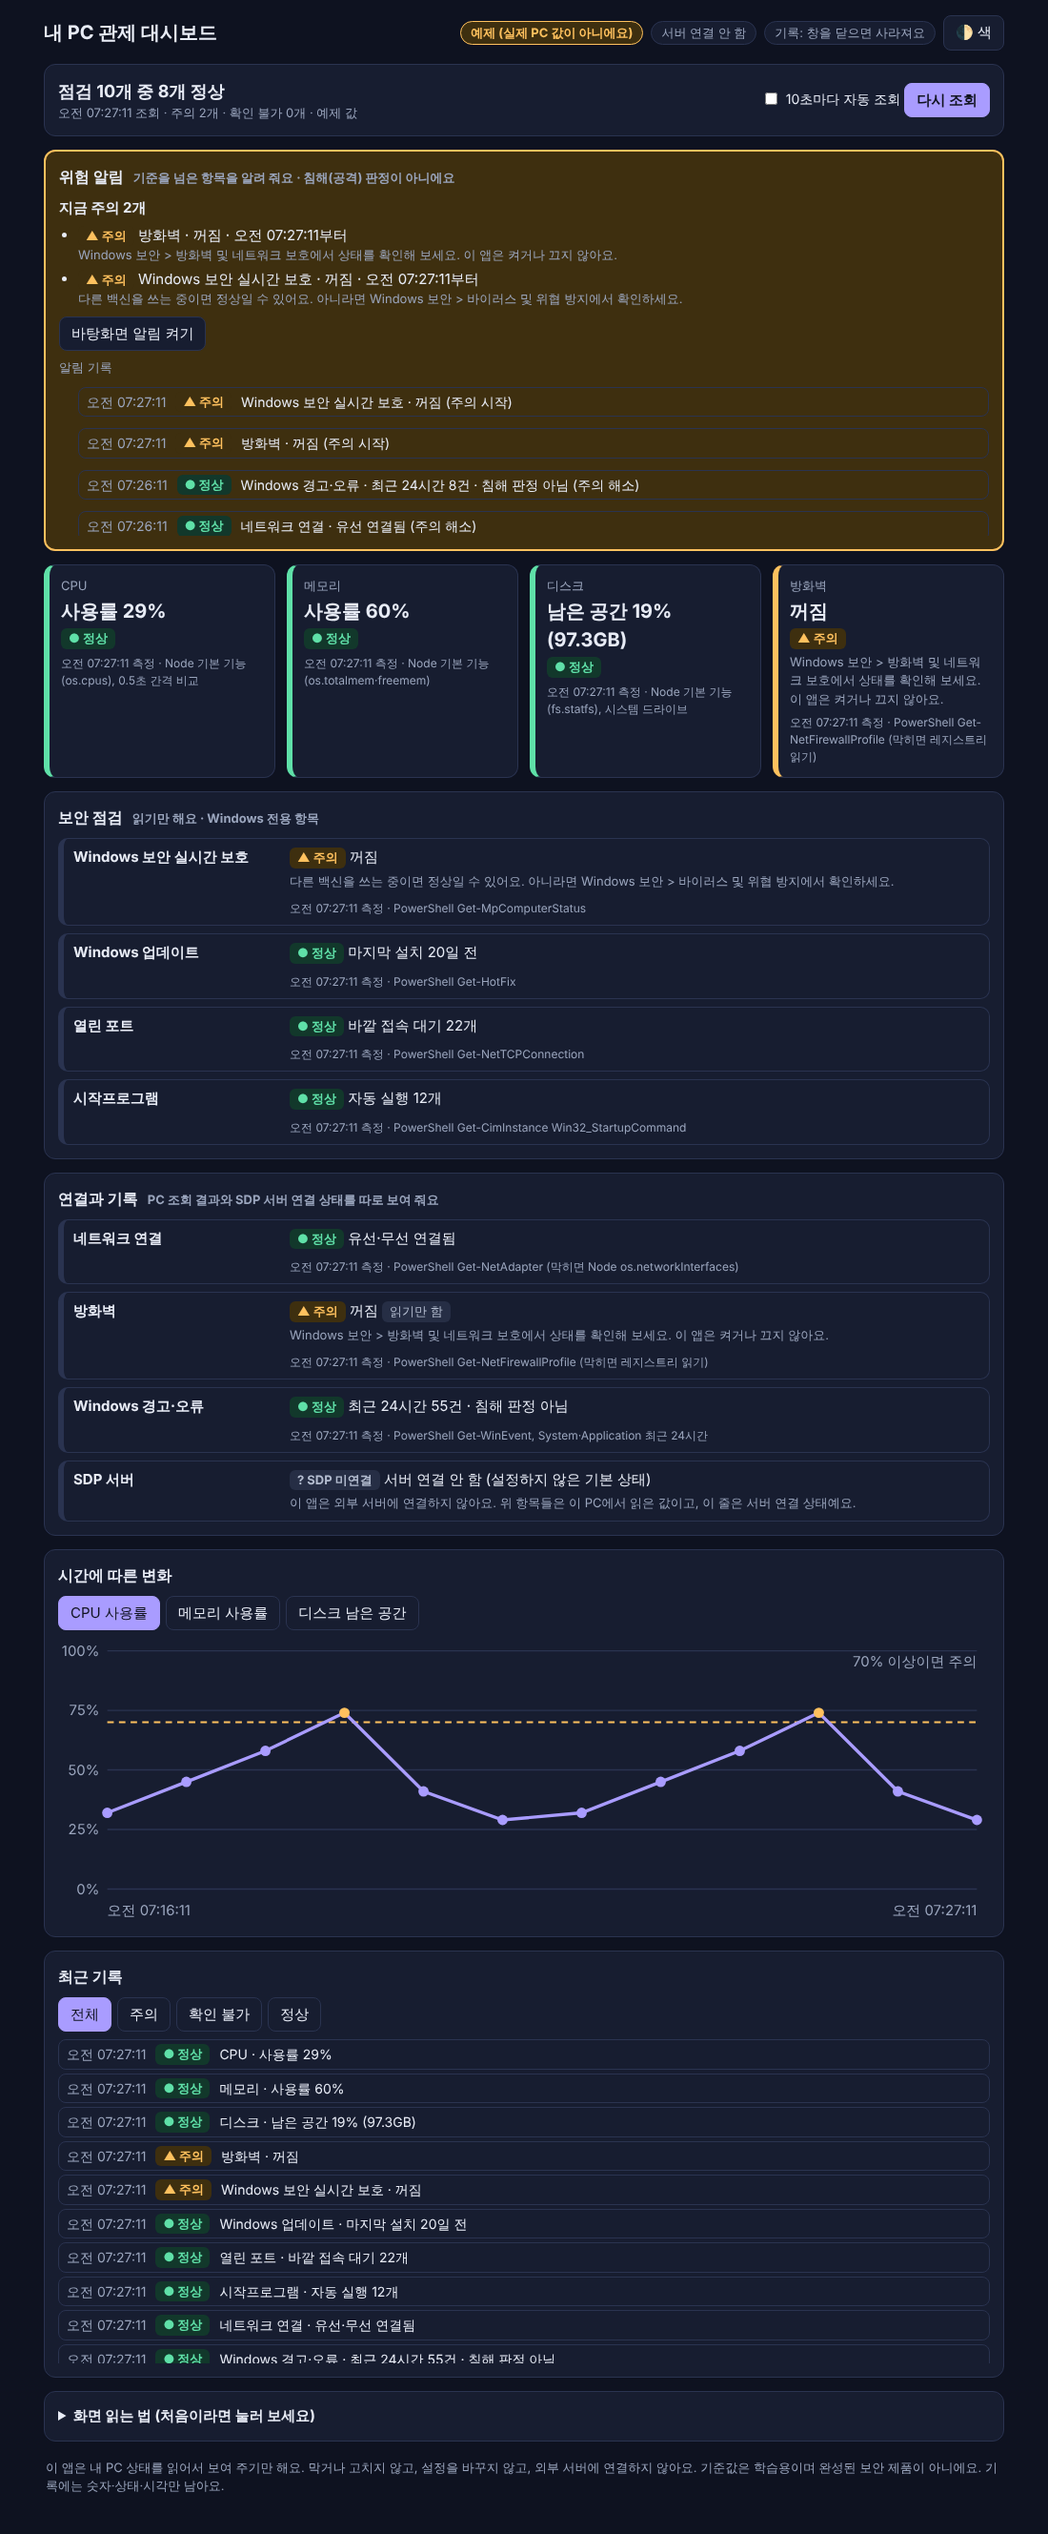
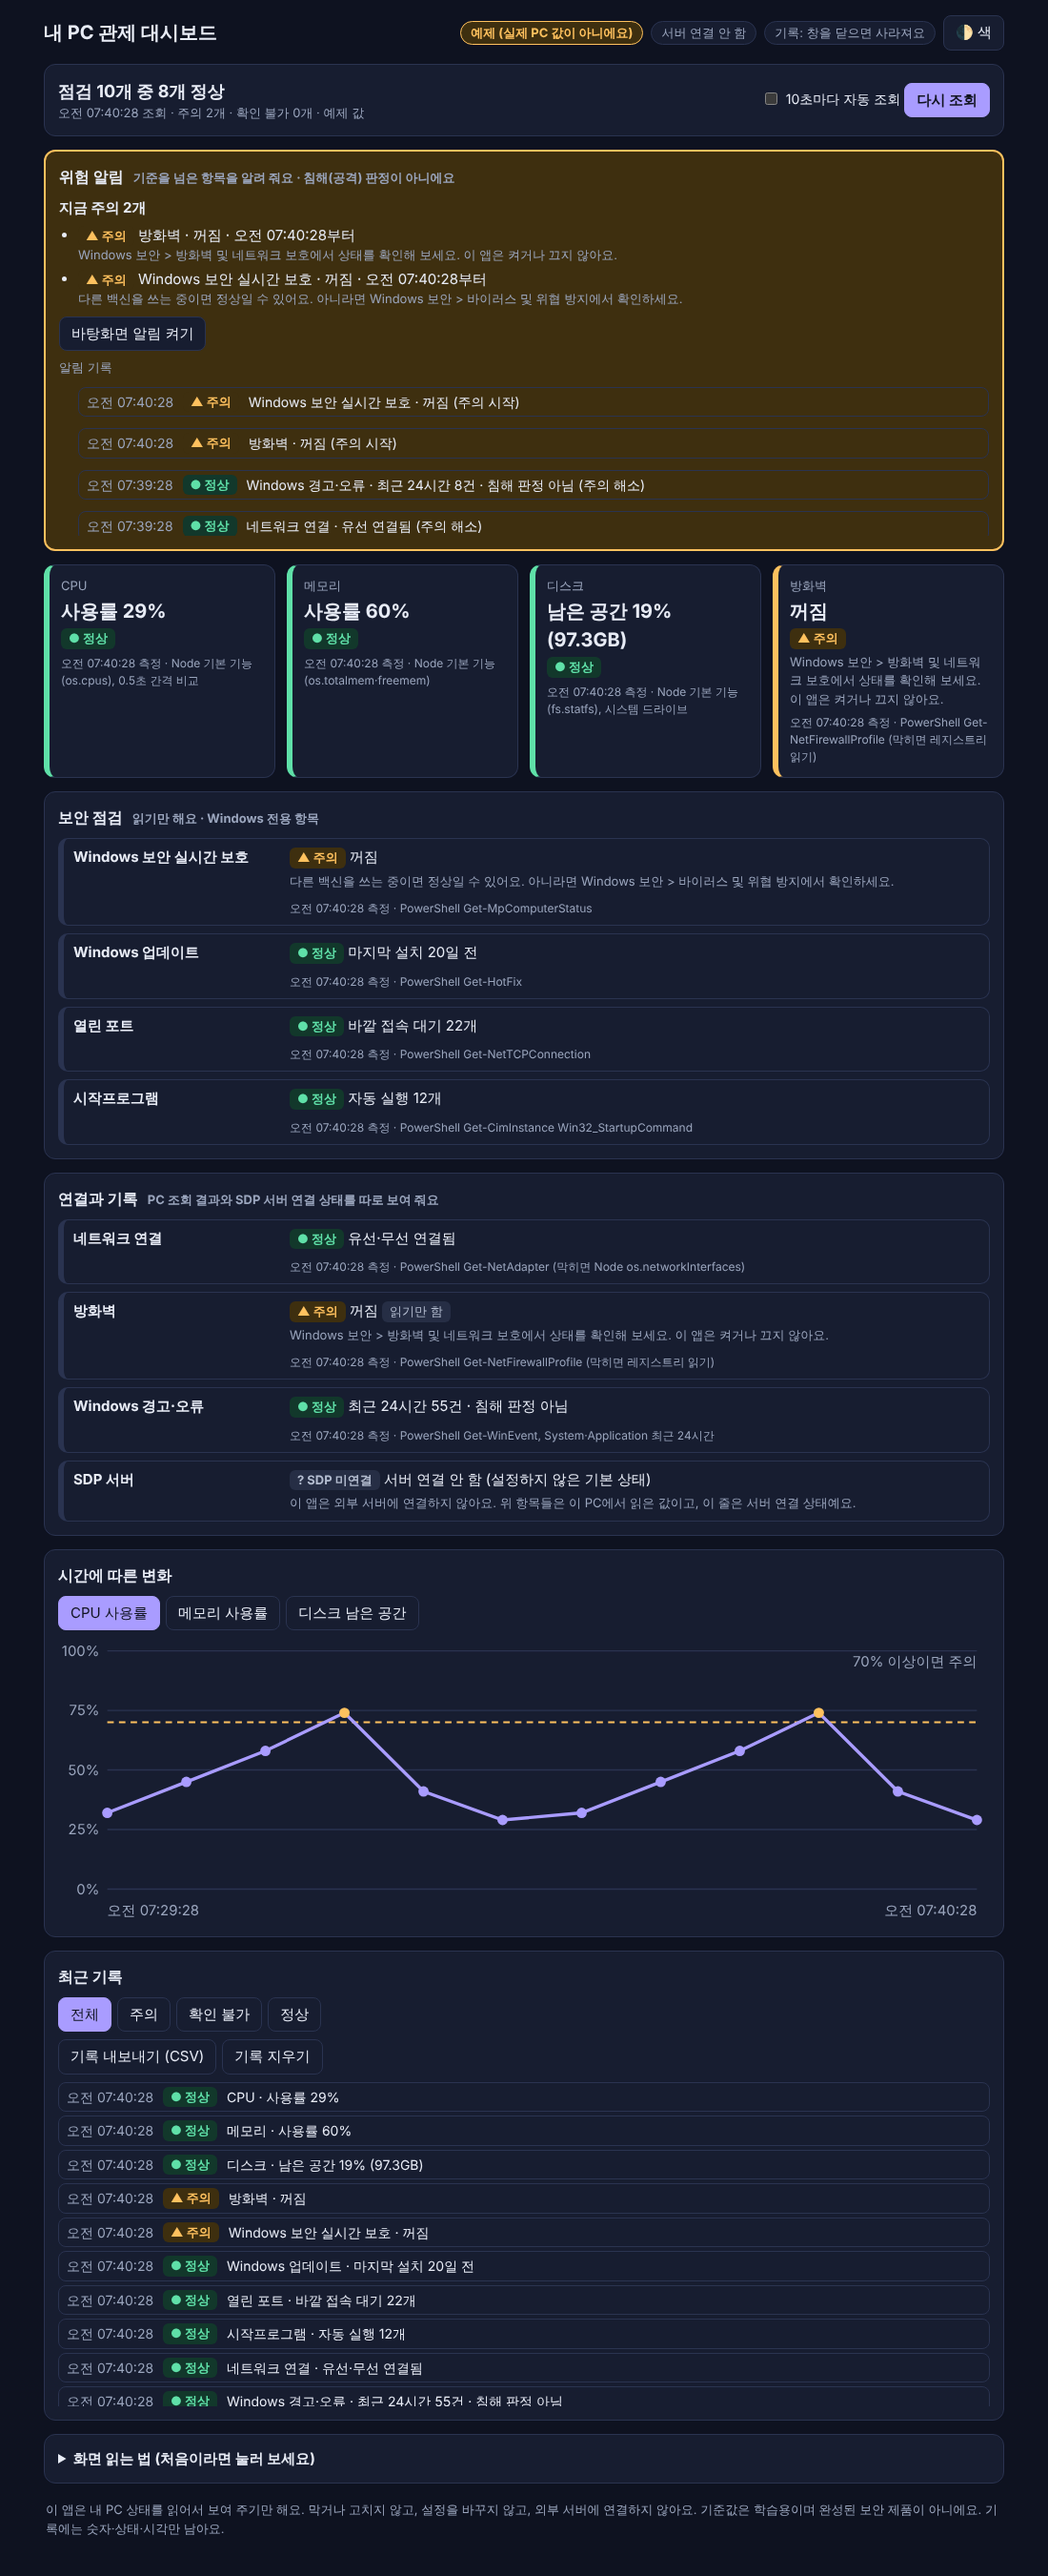
기본 화면을 어두운 색으로 고정하고, 기록 내보내기(CSV)·기록 지우기 추가
- 윈도우 밝은 모드를 따라가지 않고 항상 어두운 화면이 기본 ("색" 버튼으로만 밝게 전환, 선택은 기억)
- 기록 내보내기(CSV): 숫자·상태·시각만, 엑셀에서 한글이 깨지지 않게 BOM 포함
- 기록 지우기: 확인 창을 거쳐 이 앱의 조회 기록만 삭제 (POST만 허용, 다른 출처 거절)
- 시험 추가 및 README 갱신

Claude-Session: https://claude.ai/code/session_01XCBESp6yVGLqrYNELnfaBy

diff --git a/student/public/index.html b/student/public/index.html
@@ -6,21 +6,17 @@
 <title>내 PC 관제 대시보드</title>
 <style>
 :root {
-  --bg: #f4f6fa; --panel: #ffffff; --line: #d9dfe9; --text: #1b2330; --muted: #5b6678;
-  --ok: #0f7a4f; --ok-bg: #e2f5ec; --warn: #9a5b00; --warn-bg: #fff1d6; --unk: #4a5568; --unk-bg: #e8ebf1;
-  --accent: #4b3fd1; --on-accent: #ffffff; --focus: #4b3fd1;
-}
-:root[data-theme="dark"] {
+  color-scheme: dark;
   --bg: #0e1220; --panel: #171d30; --line: #2a3350; --text: #e8ecf6; --muted: #9aa5bd;
   --ok: #5fe0a8; --ok-bg: #12382b; --warn: #ffc15e; --warn-bg: #3e2f0f; --unk: #b4bdd0; --unk-bg: #262e45;
   --accent: #a99cff; --on-accent: #10131f; --focus: #a99cff;
 }
-@media (prefers-color-scheme: dark) {
-  :root:not([data-theme="light"]) {
-    --bg: #0e1220; --panel: #171d30; --line: #2a3350; --text: #e8ecf6; --muted: #9aa5bd;
-    --ok: #5fe0a8; --ok-bg: #12382b; --warn: #ffc15e; --warn-bg: #3e2f0f; --unk: #b4bdd0; --unk-bg: #262e45;
-    --accent: #a99cff; --on-accent: #10131f; --focus: #a99cff;
-  }
+/* 밝은 화면은 "색" 버튼을 눌렀을 때만 나와요. (윈도우 설정을 따라가지 않아요) */
+:root[data-theme="light"] {
+  color-scheme: light;
+  --bg: #f4f6fa; --panel: #ffffff; --line: #d9dfe9; --text: #1b2330; --muted: #5b6678;
+  --ok: #0f7a4f; --ok-bg: #e2f5ec; --warn: #9a5b00; --warn-bg: #fff1d6; --unk: #4a5568; --unk-bg: #e8ebf1;
+  --accent: #4b3fd1; --on-accent: #ffffff; --focus: #4b3fd1;
 }
 * { box-sizing: border-box; }
 body { margin: 0; background: var(--bg); color: var(--text); font: 15px/1.5 "Malgun Gothic", "Apple SD Gothic Neo", system-ui, sans-serif; }
@@ -129,6 +125,7 @@ label.inline { display: inline-flex; gap: 6px; align-items: center; font-size: 1
   <section class="panel">
     <h2>최근 기록</h2>
     <div class="tabs" id="filterTabs" role="group" aria-label="기록 거르기"></div>
+    <div class="tabs"><button id="csvBtn" type="button">기록 내보내기 (CSV)</button><button id="clearBtn" type="button">기록 지우기</button><span class="muted" id="logNote"></span></div>
     <ul class="log" id="log"></ul>
   </section>
 
@@ -389,6 +386,39 @@ async function check() {
   }
 }
 
+function csvCell(v) {
+  let t = String(v ?? '');
+  if (/^[=+\-@]/.test(t)) t = `'${t}`; // 엑셀에서 수식으로 읽히지 않게
+  return `"${t.replace(/"/g, '""')}"`;
+}
+function exportCsv() {
+  if (state.entries.length === 0) { $('logNote').textContent = '내보낼 기록이 아직 없어요.'; return; }
+  const rows = [['시각', '모드', '항목', '상태', '내용', '값']];
+  for (const e of state.entries) {
+    for (const i of e.items) rows.push([new Date(e.at).toLocaleString('ko-KR'), e.mode === 'demo' ? '예제' : '실제', i.label, LABEL[i.status], i.text, i.value ?? '']);
+  }
+  const csv = '\uFEFF' + rows.map((r) => r.map(csvCell).join(',')).join('\r\n');
+  const a = document.createElement('a');
+  a.href = URL.createObjectURL(new Blob([csv], { type: 'text/csv;charset=utf-8' }));
+  const d = new Date(); const z = (n) => String(n).padStart(2, '0');
+  a.download = `pc-dashboard-log-${d.getFullYear()}${z(d.getMonth() + 1)}${z(d.getDate())}-${z(d.getHours())}${z(d.getMinutes())}.csv`;
+  document.body.append(a); a.click(); a.remove();
+  setTimeout(() => URL.revokeObjectURL(a.href), 1000);
+  $('logNote').textContent = `기록 ${state.entries.length}번 조회분을 내보냈어요. 숫자·상태·시각만 들어 있어요.`;
+}
+async function clearHistory() {
+  if (!confirm('조회 기록을 모두 지울까요? 되돌릴 수 없어요.')) return;
+  try {
+    await api('/api/clear', { method: 'POST' });
+    state.entries = [];
+    state.alerts = await api('/api/alerts');
+    renderAll();
+    $('logNote').textContent = '기록을 모두 지웠어요. "다시 조회"를 누르면 새로 쌓여요.';
+  } catch (e) { $('logNote').textContent = `기록을 지우지 못했어요: ${e.message}`; }
+}
+$('csvBtn').addEventListener('click', exportCsv);
+$('clearBtn').addEventListener('click', clearHistory);
+
 let timer = null;
 $('autoBox').addEventListener('change', (e) => {
   clearInterval(timer); timer = null;
@@ -403,7 +433,7 @@ $('notifyBtn').addEventListener('click', async () => {
   else $('notifyNote').textContent = '브라우저에서 알림이 허용되지 않았어요. 화면 안 알림은 그대로 보여요.';
 });
 $('themeBtn').addEventListener('click', () => {
-  const cur = document.documentElement.dataset.theme || (matchMedia('(prefers-color-scheme: dark)').matches ? 'dark' : 'light');
+  const cur = document.documentElement.dataset.theme === 'light' ? 'light' : 'dark';
   const next = cur === 'dark' ? 'light' : 'dark';
   document.documentElement.dataset.theme = next;
   try { localStorage.setItem('theme', next); } catch (_) { /* 저장이 막혀도 괜찮아요 */ }

diff --git a/student/README.md b/student/README.md
@@ -52,7 +52,10 @@
 - **상태 카드 4개**: CPU, 메모리, 디스크, 방화벽. 각각 **정상 / 주의 / 확인 불가**. 권한 때문이면 "확인 불가 · 권한 없음".
 - **보안 점검 4개**: Windows 보안 실시간 보호, Windows 업데이트(마지막 설치일), 열린 포트(개수), 시작프로그램(개수).
 - **연결과 기록**: 네트워크 연결(유선/무선), 방화벽(읽기만 함), Windows 경고·오류 건수(침해 판정 아님), **SDP 서버(기본: SDP 미연결 · 서버 연결 안 함)**. PC 조회 결과와 서버 연결 상태를 따로 보여 줍니다.
-- **시간에 따른 변화 그래프**, **최근 기록**, 어두운/밝은 색, 모바일 폭 대응, "화면 읽는 법".
+- **시간에 따른 변화 그래프**, **최근 기록**(전체/주의/확인 불가/정상), 모바일 폭 대응, "화면 읽는 법".
+- **기록 내보내기(CSV)**: 조회 기록을 엑셀에서 열 수 있는 CSV로 내려받습니다(숫자·상태·시각만). 시연의 "근거"로 쓸 수 있습니다.
+- **기록 지우기**: 확인 창을 거친 뒤 이 앱의 조회 기록을 모두 지웁니다(되돌릴 수 없음). 공용 PC에서 쓰고 나서 지우는 용도입니다.
+- **화면 색**: 항상 **어두운 화면이 기본**입니다(윈도우 밝은 모드를 따라가지 않음). "색" 버튼을 누르면 밝은 화면으로 바꿀 수 있고, 고른 색은 이 브라우저에 기억됩니다.
 - 카드와 줄마다 **"몇 시에 측정 · 어디서 읽었는지"** 가 적혀 있습니다.
 
 ## 4. 판정 기준 (학습용 처음 값, `student/judge.mjs`에서 바꿈)
@@ -78,7 +81,7 @@
 | --- | --- |
 | 숫자(사용률, 남은 공간, 개수, 건수), 상태, 연결 종류(유선/무선), 조회 시각 | PC 이름, 사용자 이름, IP·MAC 주소, 프로그램 이름, 파일 이름, 이벤트 내용, 비밀번호, API 키 |
 
-기록은 `student/data/` 폴더에만 저장되고(최근 약 500건) Git에는 올라가지 않습니다. 공용 PC에서는 `--no-save`를 쓰세요.
+기록은 `student/data/` 폴더에만 저장되고(최근 약 500건) Git에는 올라가지 않습니다. 공용 PC에서는 `--no-save`를 쓰거나, 쓴 뒤 화면의 "기록 지우기"를 누르세요.
 
 ## 6. 실제로 구현된 범위와 한계 (솔직하게)
 
@@ -113,7 +116,7 @@
 
 ## 8. 확인한 것 / 확인하지 못한 것
 
-- **확인함 (개발 환경, Linux):** student 자동 시험 통과, 저장소 전체 시험 통과, 예제 모드·실제 모드 화면(데스크톱·모바일·어두운/밝은 색)을 브라우저에서 열어 클릭 동작과 오류 없음 확인, 포트 자동 찾기, `--no-save`, 다른 주소 요청 거절.
+- **확인함 (개발 환경, Linux):** student 자동 시험 27건 통과, 저장소 전체 시험 290건 통과, 예제 모드·실제 모드 화면(데스크톱·모바일·어두운/밝은 색)을 브라우저에서 열어 클릭 동작과 오류 없음 확인, 포트 자동 찾기, `--no-save`, 다른 주소 요청 거절.
 - **가짜 PowerShell 결과로:** Windows 항목의 해석과 판정, 일부 명령 실패 시 "확인 불가"와 대체 방법(방화벽 레지스트리, 네트워크 Node 기본) 동작.
 - **확인하지 못함:** 실제 Windows PC에서 PowerShell 명령이 내는 진짜 결과, `start.bat`·`start.ps1`·휴대용 Node 방식을 Windows에서 실행, **다른 사람이 내 도움 없이 이 안내만 보고 따라 해 보기**.
 
